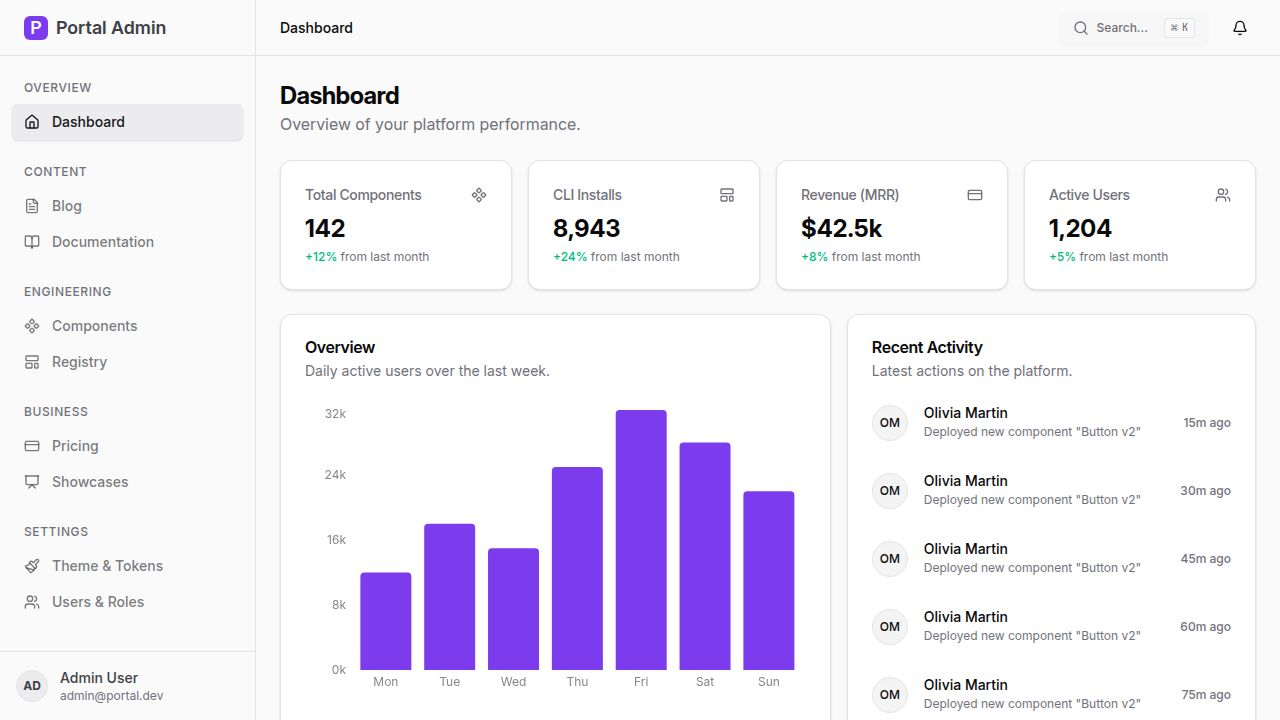
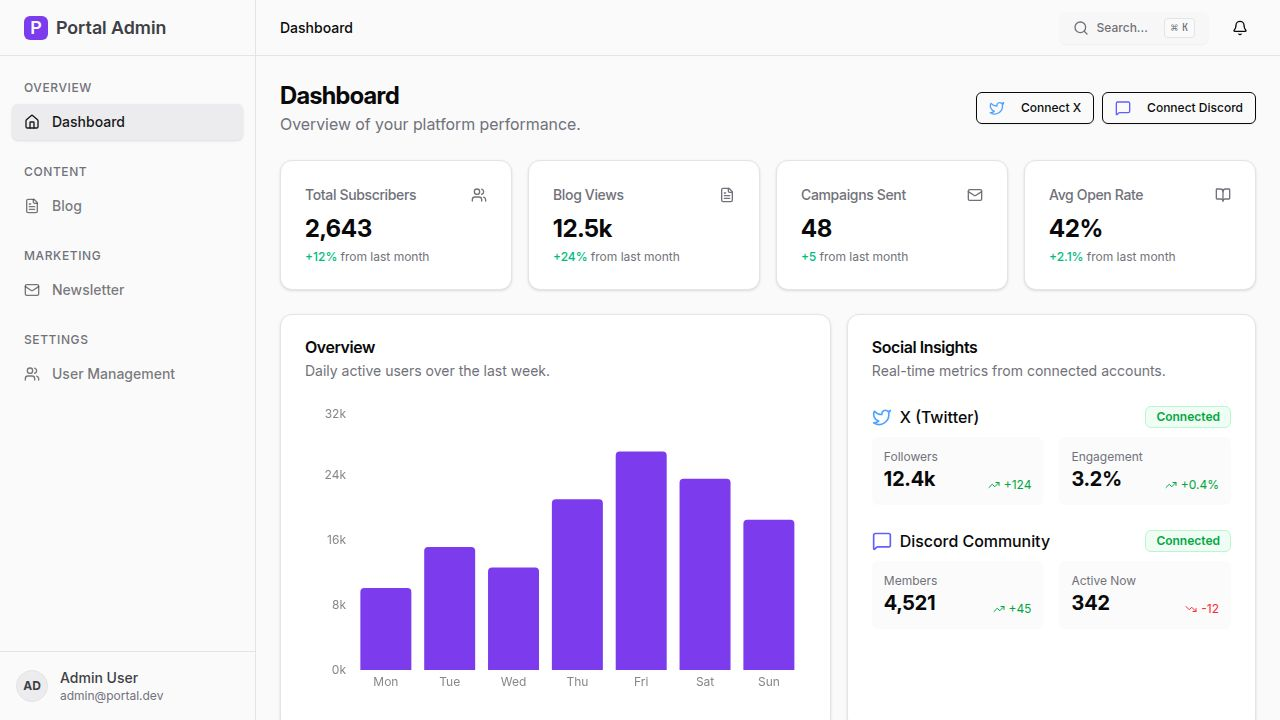
Add social media insights and remove documentation features
Remove the documentation section and integrate social media insights for X and Discord into the dashboard.

Replit-Commit-Author: Agent
Replit-Commit-Session-Id: 6663305c-b491-441a-8705-a4b956021579
Replit-Commit-Checkpoint-Type: full_checkpoint
Replit-Commit-Event-Id: d385b955-3680-405b-9a7a-1ed1a2252f7f
Replit-Commit-Screenshot-Url: https://storage.googleapis.com/screenshot-production-us-central1/a600dc79-d086-4ce1-9df1-a961828855e7/6663305c-b491-441a-8705-a4b956021579/zz8g7VB
Replit-Helium-Checkpoint-Created: true

diff --git a/client/src/pages/dashboard.tsx b/client/src/pages/dashboard.tsx
@@ -1,8 +1,11 @@
 import AdminLayout from "@/components/layout/AdminLayout";
 import { StatsCard } from "@/components/dashboard/StatsCard";
-import { KPI_STATS } from "@/lib/mock-data";
+import { KPI_STATS, SOCIAL_STATS } from "@/lib/mock-data";
 import { Card, CardContent, CardDescription, CardHeader, CardTitle } from "@/components/ui/card";
 import { BarChart, Bar, XAxis, YAxis, Tooltip, ResponsiveContainer } from "recharts";
+import { Button } from "@/components/ui/button";
+import { Twitter, MessageSquare, TrendingUp, TrendingDown, ArrowUpRight } from "lucide-react";
+import { Badge } from "@/components/ui/badge";
 
 const data = [
   { name: 'Mon', total: 12 },
@@ -18,9 +21,19 @@ export default function Dashboard() {
   return (
     <AdminLayout>
       <div className="space-y-6">
-        <div>
-          <h1 className="text-2xl font-bold tracking-tight">Dashboard</h1>
-          <p className="text-muted-foreground">Overview of your platform performance.</p>
+        <div className="flex items-center justify-between">
+          <div>
+            <h1 className="text-2xl font-bold tracking-tight">Dashboard</h1>
+            <p className="text-muted-foreground">Overview of your platform performance.</p>
+          </div>
+          <div className="flex gap-2">
+            <Button variant="outline" size="sm">
+              <Twitter className="mr-2 h-4 w-4 text-blue-400" /> Connect X
+            </Button>
+            <Button variant="outline" size="sm">
+              <MessageSquare className="mr-2 h-4 w-4 text-indigo-500" /> Connect Discord
+            </Button>
+          </div>
         </div>
 
         <div className="grid gap-4 md:grid-cols-2 lg:grid-cols-4">
@@ -68,32 +81,67 @@ export default function Dashboard() {
               </div>
             </CardContent>
           </Card>
-          <Card className="col-span-3">
-            <CardHeader>
-              <CardTitle>Recent Activity</CardTitle>
-              <CardDescription>Latest actions on the platform.</CardDescription>
-            </CardHeader>
-            <CardContent>
-              <div className="space-y-8">
-                {[1, 2, 3, 4, 5].map((i) => (
-                  <div key={i} className="flex items-center">
-                    <div className="h-9 w-9 rounded-full bg-muted flex items-center justify-center border text-xs font-medium">
-                      OM
-                    </div>
-                    <div className="ml-4 space-y-1">
-                      <p className="text-sm font-medium leading-none">Olivia Martin</p>
-                      <p className="text-xs text-muted-foreground">
-                        Deployed new component "Button v2"
-                      </p>
-                    </div>
-                    <div className="ml-auto font-medium text-xs text-muted-foreground">
-                      {i * 15}m ago
-                    </div>
-                  </div>
-                ))}
-              </div>
-            </CardContent>
-          </Card>
+
+          <div className="col-span-3 space-y-4">
+             {/* Social Integration Section */}
+             <Card className="h-full">
+               <CardHeader>
+                 <CardTitle>Social Insights</CardTitle>
+                 <CardDescription>Real-time metrics from connected accounts.</CardDescription>
+               </CardHeader>
+               <CardContent>
+                 <div className="space-y-6">
+                   <div className="space-y-2">
+                      <div className="flex items-center justify-between">
+                         <div className="flex items-center gap-2">
+                            <Twitter className="h-5 w-5 text-blue-400" />
+                            <span className="font-medium">X (Twitter)</span>
+                         </div>
+                         <Badge variant="outline" className="text-green-600 bg-green-50 border-green-200">Connected</Badge>
+                      </div>
+                      <div className="grid grid-cols-2 gap-4 mt-2">
+                         {SOCIAL_STATS.filter(s => s.platform === 'twitter').map((stat, i) => (
+                            <div key={i} className="bg-muted/40 p-3 rounded-md">
+                               <p className="text-xs text-muted-foreground">{stat.metric}</p>
+                               <div className="flex items-end justify-between">
+                                  <p className="text-xl font-bold">{stat.value}</p>
+                                  <span className={`text-xs flex items-center ${stat.trend === 'up' ? 'text-green-600' : 'text-red-500'}`}>
+                                     {stat.trend === 'up' ? <TrendingUp className="h-3 w-3 mr-1" /> : <TrendingDown className="h-3 w-3 mr-1" />}
+                                     {stat.change}
+                                  </span>
+                               </div>
+                            </div>
+                         ))}
+                      </div>
+                   </div>
+
+                   <div className="space-y-2">
+                      <div className="flex items-center justify-between">
+                         <div className="flex items-center gap-2">
+                            <MessageSquare className="h-5 w-5 text-indigo-500" />
+                            <span className="font-medium">Discord Community</span>
+                         </div>
+                         <Badge variant="outline" className="text-green-600 bg-green-50 border-green-200">Connected</Badge>
+                      </div>
+                      <div className="grid grid-cols-2 gap-4 mt-2">
+                         {SOCIAL_STATS.filter(s => s.platform === 'discord').map((stat, i) => (
+                            <div key={i} className="bg-muted/40 p-3 rounded-md">
+                               <p className="text-xs text-muted-foreground">{stat.metric}</p>
+                               <div className="flex items-end justify-between">
+                                  <p className="text-xl font-bold">{stat.value}</p>
+                                  <span className={`text-xs flex items-center ${stat.trend === 'up' ? 'text-green-600' : 'text-red-500'}`}>
+                                     {stat.trend === 'up' ? <TrendingUp className="h-3 w-3 mr-1" /> : <TrendingDown className="h-3 w-3 mr-1" />}
+                                     {stat.change}
+                                  </span>
+                               </div>
+                            </div>
+                         ))}
+                      </div>
+                   </div>
+                 </div>
+               </CardContent>
+             </Card>
+          </div>
         </div>
       </div>
     </AdminLayout>

diff --git a/client/src/lib/mock-data.ts b/client/src/lib/mock-data.ts
@@ -1,4 +1,4 @@
-import { LucideIcon, FileText, BookOpen, Component, LayoutTemplate, CreditCard, Presentation, Paintbrush, Users, Home, Check, X, Clock, AlertCircle, Mail, Bell } from "lucide-react";
+import { LucideIcon, FileText, BookOpen, Component, LayoutTemplate, CreditCard, Presentation, Paintbrush, Users, Home, Check, X, Clock, AlertCircle, Mail, Bell, Twitter, MessageSquare } from "lucide-react";
 
 export interface BlogPost {
   id: string;
@@ -14,15 +14,6 @@ export interface BlogPost {
   tags: string[];
   coverImage: string;
   content?: string;
-}
-
-export interface DocItem {
-  id: string;
-  title: string;
-  slug: string;
-  category: "Getting Started" | "Examples" | "API Reference";
-  content?: string;
-  status: "published" | "draft";
 }
 
 export interface NewsletterSubscriber {
@@ -51,6 +42,14 @@ export interface User {
   status: "active" | "inactive";
   lastActive: string;
   avatar?: string;
+}
+
+export interface SocialMetric {
+  platform: "twitter" | "discord";
+  metric: string;
+  value: string;
+  change: string;
+  trend: "up" | "down" | "neutral";
 }
 
 export const USERS: User[] = [
@@ -101,14 +100,6 @@ export const BLOG_POSTS: BlogPost[] = [
   },
 ];
 
-export const DOCS_ITEMS: DocItem[] = [
-  { id: "1", title: "Introduction", slug: "introduction", category: "Getting Started", status: "published" },
-  { id: "2", title: "Installation", slug: "installation", category: "Getting Started", status: "published" },
-  { id: "3", title: "Theming", slug: "theming", category: "Getting Started", status: "published" },
-  { id: "4", title: "Components", slug: "components", category: "Examples", status: "published" },
-  { id: "5", title: "Hooks", slug: "hooks", category: "Examples", status: "draft" },
-];
-
 export const SUBSCRIBERS: NewsletterSubscriber[] = [
   { id: "1", email: "alice@example.com", status: "active", subscribedAt: "2024-01-15", source: "Blog Footer" },
   { id: "2", email: "bob.dev@gmail.com", status: "active", subscribedAt: "2024-01-16", source: "Popup" },
@@ -131,6 +122,13 @@ export const KPI_STATS = [
   { label: "Avg Open Rate", value: "42%", change: "+2.1%", icon: BookOpen },
 ];
 
+export const SOCIAL_STATS: SocialMetric[] = [
+  { platform: "twitter", metric: "Followers", value: "12.4k", change: "+124", trend: "up" },
+  { platform: "twitter", metric: "Engagement", value: "3.2%", change: "+0.4%", trend: "up" },
+  { platform: "discord", metric: "Members", value: "4,521", change: "+45", trend: "up" },
+  { platform: "discord", metric: "Active Now", value: "342", change: "-12", trend: "down" },
+];
+
 export const NAV_ITEMS = [
   {
     section: "Overview",
@@ -142,7 +140,6 @@ export const NAV_ITEMS = [
     section: "Content",
     items: [
       { title: "Blog", icon: FileText, href: "/content/blog" },
-      { title: "Documentation", icon: BookOpen, href: "/content/docs" },
     ]
   },
   {

diff --git a/client/src/App.tsx b/client/src/App.tsx
@@ -6,7 +6,6 @@ import { TooltipProvider } from "@/components/ui/tooltip";
 import NotFound from "@/pages/not-found";
 import Dashboard from "@/pages/dashboard";
 import BlogPage from "@/pages/content/blog";
-import DocsPage from "@/pages/content/docs";
 import NewsletterPage from "@/pages/marketing/newsletter";
 import UsersPage from "@/pages/settings/users";
 
@@ -15,11 +14,11 @@ function Router() {
     <Switch>
       <Route path="/" component={Dashboard} />
       <Route path="/content/blog" component={BlogPage} />
-      <Route path="/content/docs" component={DocsPage} />
       <Route path="/marketing/newsletter" component={NewsletterPage} />
       <Route path="/settings/users" component={UsersPage} />
       
       {/* Fallbacks for routes that were removed */}
+      <Route path="/content/docs" component={NotFound} />
       <Route path="/engineering/components" component={NotFound} />
       <Route path="/engineering/registry" component={NotFound} />
       <Route path="/business/showcases" component={NotFound} />
